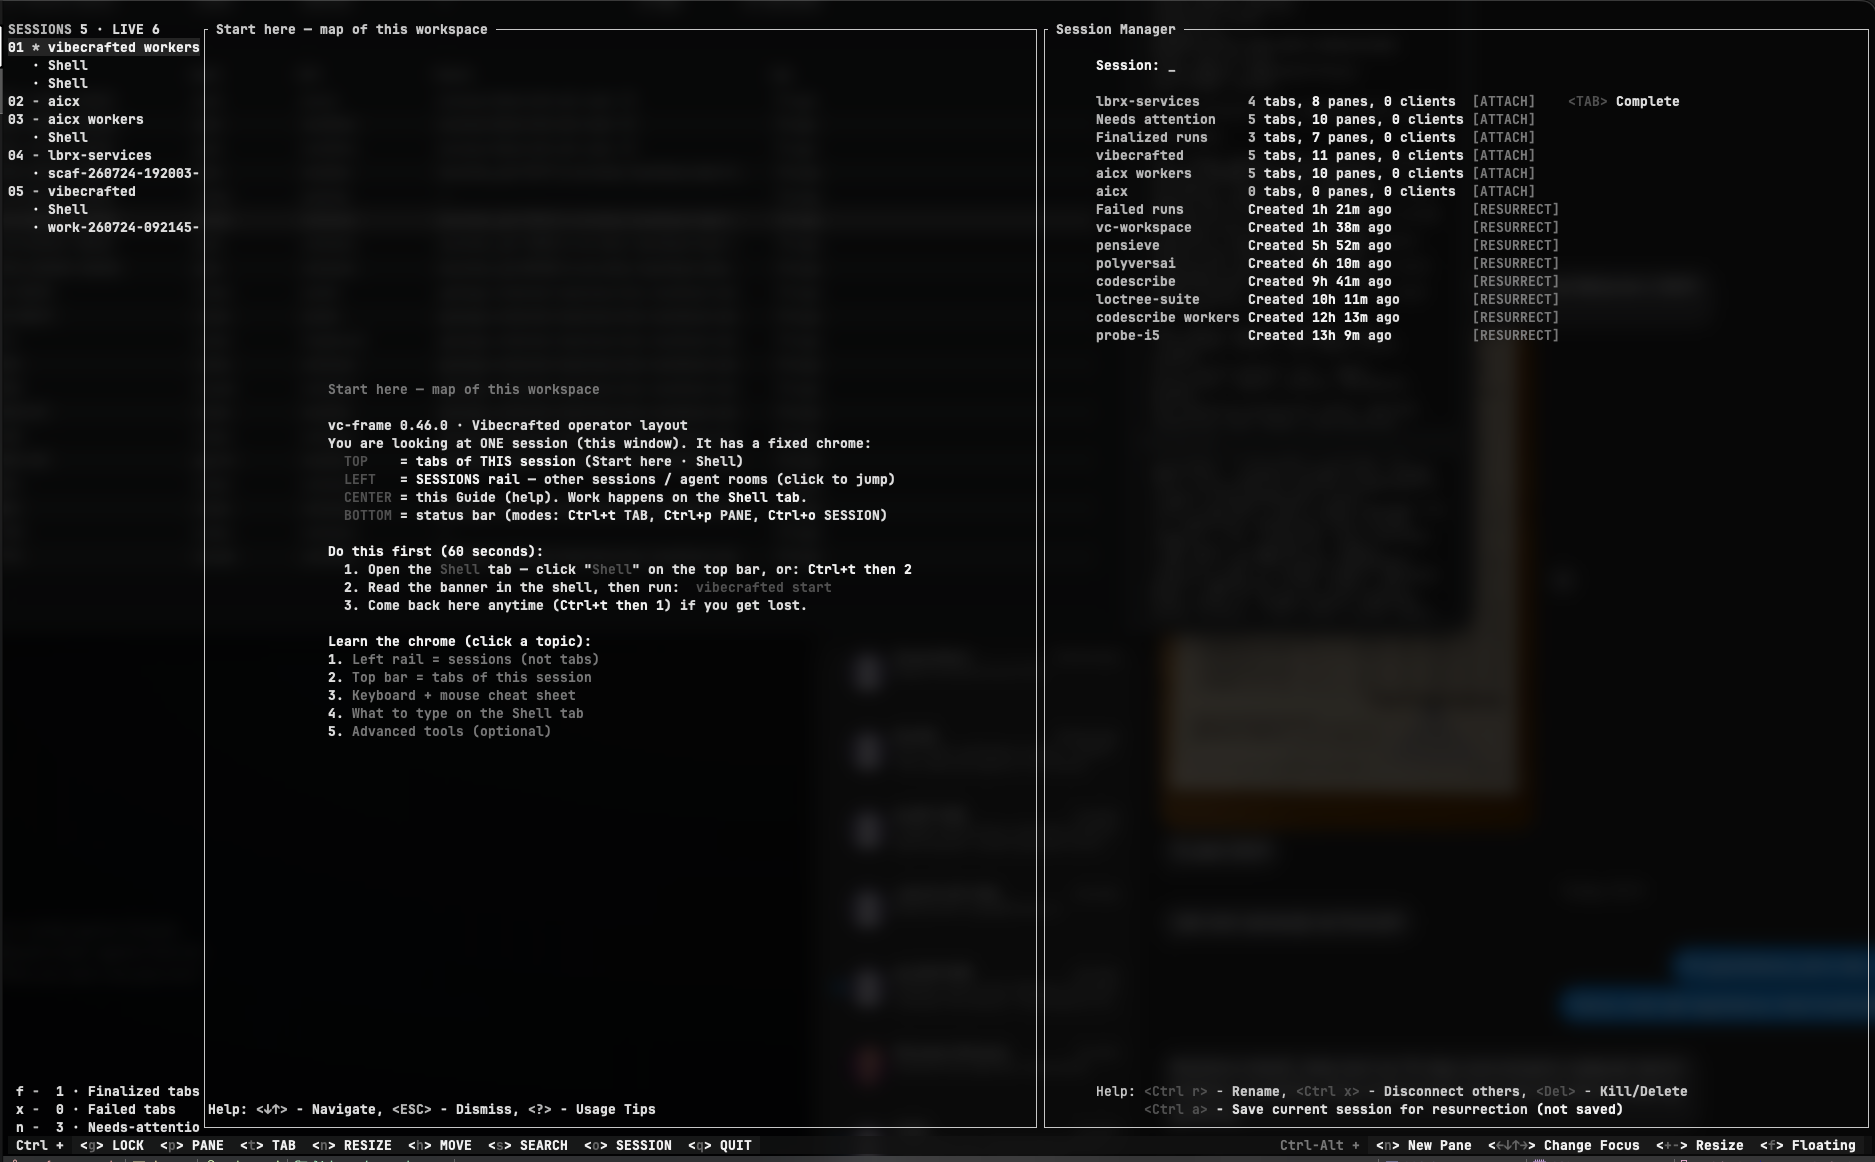
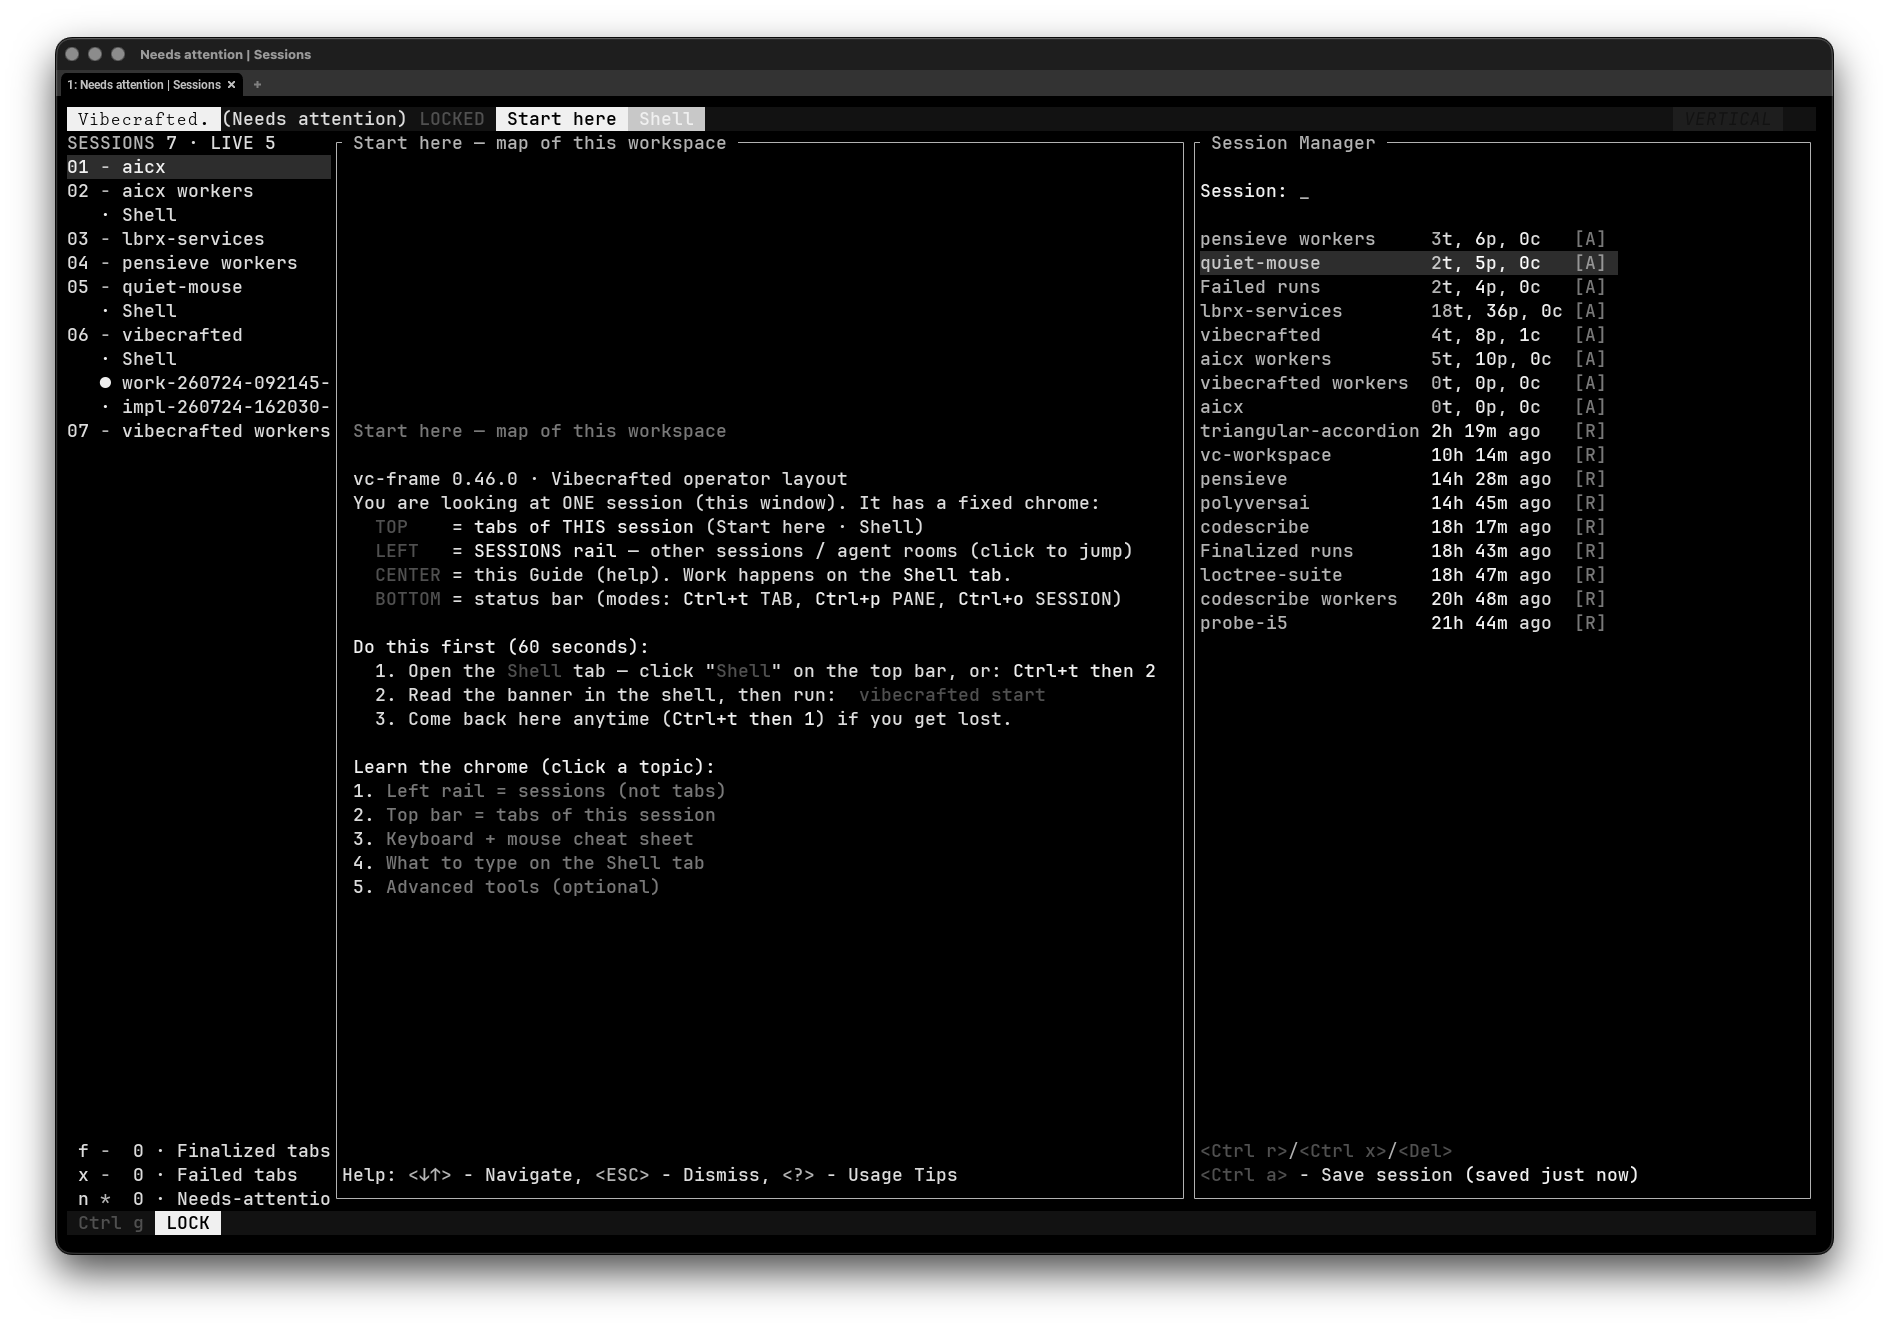
[grok/vc-scaffold] feat(site): macOS window chrome + Start-here as hero
- TerminalWindow component + shared terminal-window.css
- Product gallery shots framed as real windows (traffic lights + title)
- Hero uses operator Start-here/Session Manager capture in chrome
- Lead surface shot = Start here (not dense-run-only)

session_id: 8b38060a-edfa-464d-be5f-51b0750faa5c
time: 2026-07-25T06:00:35+02:00
runtime: terminal

diff --git a/site/src/components/sections/HeroSectionV2.svelte b/site/src/components/sections/HeroSectionV2.svelte
@@ -44,17 +44,27 @@
   <div class="hero__vignette" aria-hidden="true"></div>
 
   <div class="hero__visual" aria-hidden="true">
-    <!-- Real vc-frame operator layout — Start here map + Session Manager -->
-    <div class="hero__frame">
-      <img
-        class="hero__art"
-        src="/assets/hero/real-usage.png"
-        alt=""
-        width="2400"
-        height="1350"
-        decoding="async"
-        fetchpriority="high"
-      />
+    <!-- Real vc-frame capture in macOS window chrome (frame only; simulator later) -->
+    <div class="hero__window vc-termwin vc-termwin--hero">
+      <div class="vc-termwin__titlebar">
+        <span class="vc-termwin__lights">
+          <span class="vc-termwin__dot vc-termwin__dot--close"></span>
+          <span class="vc-termwin__dot vc-termwin__dot--min"></span>
+          <span class="vc-termwin__dot vc-termwin__dot--max"></span>
+        </span>
+        <span class="vc-termwin__title">Needs attention · Sessions — vc-frame</span>
+      </div>
+      <div class="vc-termwin__body">
+        <img
+          class="hero__art"
+          src="/assets/hero/real-usage.png"
+          alt="vc-frame operator layout: Start here map, sessions rail, Session Manager"
+          width="1600"
+          height="1000"
+          decoding="async"
+          fetchpriority="high"
+        />
+      </div>
     </div>
     <div class="hero__art-shade"></div>
   </div>
@@ -158,7 +168,7 @@
     pointer-events: none;
   }
 
-  /* ── Real-usage frame (replaces marble canvas + AI art) ──── */
+  /* ── Real-usage window (macOS chrome + capture) ──────────── */
 
   .hero__visual {
     position: absolute;
@@ -168,20 +178,12 @@
     overflow: hidden;
   }
 
-  .hero__frame {
+  .hero__window {
     position: absolute;
     right: clamp(16px, 3vw, 48px);
     top: 50%;
     transform: translateY(-52%);
     width: min(58vw, 920px);
-    border-radius: 6px;
-    border: 1px solid rgba(245, 244, 239, 0.12);
-    box-shadow:
-      0 0 0 1px rgba(0, 0, 0, 0.45),
-      0 28px 80px rgba(0, 0, 0, 0.55),
-      0 0 120px rgba(var(--v2-accent-rgb), 0.06);
-    overflow: hidden;
-    background: #0a0c10;
   }
 
   .hero__art {
@@ -471,13 +473,13 @@
       min-height: 200px;
     }
 
-    .hero__frame {
+    .hero__window {
       right: 12px;
       left: 12px;
       top: 88px;
       transform: none;
       width: auto;
-      opacity: 0.72;
+      opacity: 0.88;
     }
 
     .hero__art-shade {

diff --git a/site/src/styles/terminal-window.css b/site/src/styles/terminal-window.css
@@ -1,0 +1,104 @@
+/**
+ * Realistic macOS-style window chrome for real product captures.
+ * Shared by hero + product surface gallery.
+ */
+.vc-termwin {
+  --vc-termwin-bar: #2a2d33;
+  --vc-termwin-bar-border: rgba(255, 255, 255, 0.08);
+  --vc-termwin-body: #0c0e12;
+  --vc-termwin-title: rgba(245, 244, 239, 0.72);
+  --vc-termwin-shadow:
+    0 28px 80px rgba(0, 0, 0, 0.55), 0 0 0 1px rgba(0, 0, 0, 0.4);
+  border-radius: 10px;
+  overflow: hidden;
+  background: var(--vc-termwin-body);
+  box-shadow: var(--vc-termwin-shadow);
+  border: 1px solid rgba(245, 244, 239, 0.1);
+}
+
+.vc-termwin__titlebar {
+  display: flex;
+  align-items: center;
+  gap: 12px;
+  height: 36px;
+  padding: 0 12px;
+  background: linear-gradient(180deg, #353841 0%, var(--vc-termwin-bar) 100%);
+  border-bottom: 1px solid var(--vc-termwin-bar-border);
+  user-select: none;
+}
+
+.vc-termwin__lights {
+  display: flex;
+  align-items: center;
+  gap: 7px;
+  flex-shrink: 0;
+}
+
+.vc-termwin__dot {
+  width: 11px;
+  height: 11px;
+  border-radius: 50%;
+  box-shadow: inset 0 0 0 0.5px rgba(0, 0, 0, 0.25);
+}
+
+.vc-termwin__dot--close {
+  background: #ff5f57;
+}
+
+.vc-termwin__dot--min {
+  background: #febc2e;
+}
+
+.vc-termwin__dot--max {
+  background: #28c840;
+}
+
+.vc-termwin__title {
+  flex: 1;
+  min-width: 0;
+  text-align: center;
+  font-family: var(--font-mono, ui-monospace, SFMono-Regular, Menlo, monospace);
+  font-size: 11px;
+  font-weight: 500;
+  letter-spacing: 0.04em;
+  color: var(--vc-termwin-title);
+  white-space: nowrap;
+  overflow: hidden;
+  text-overflow: ellipsis;
+  padding-right: 52px; /* balance traffic lights */
+}
+
+.vc-termwin__body {
+  position: relative;
+  background: var(--vc-termwin-body);
+  line-height: 0;
+}
+
+.vc-termwin__body img {
+  display: block;
+  width: 100%;
+  height: auto;
+  vertical-align: top;
+}
+
+.vc-termwin--hero {
+  border-radius: 11px;
+}
+
+.vc-termwin--hero .vc-termwin__titlebar {
+  height: 38px;
+}
+
+.vc-termwin--compact .vc-termwin__titlebar {
+  height: 32px;
+}
+
+.vc-termwin--compact .vc-termwin__dot {
+  width: 10px;
+  height: 10px;
+}
+
+.vc-termwin--compact .vc-termwin__title {
+  font-size: 10px;
+  padding-right: 48px;
+}

diff --git a/site/src/lib/i18n/pl.ts b/site/src/lib/i18n/pl.ts
@@ -118,7 +118,7 @@ export const pl = {
       live: "LIVE",
     },
     telemetryLegend: "Powierzchnia dispatchu: agenci, repo, żywe runy.",
-    canvasCaption: "Real usage · finalized run · rail sesji · strip f/x/n.",
+    canvasCaption: "Real usage · Start here · Session Manager · rail sesji.",
     scroll: "SCROLL",
   },
   copyButton: {

diff --git a/site/src/lib/i18n/en.ts b/site/src/lib/i18n/en.ts
@@ -114,7 +114,7 @@ export const en = {
       live: "LIVE",
     },
     telemetryLegend: "Dispatch surface: agents, repos, live runs.",
-    canvasCaption: "Real usage · finalized run · session rail · f/x/n strip.",
+    canvasCaption: "Real usage · Start here · Session Manager · sessions rail.",
     scroll: "SCROLL",
   },
   copyButton: {

diff --git a/site/src/content/i18n/en/product-surface-v2.md b/site/src/content/i18n/en/product-surface-v2.md
@@ -7,30 +7,34 @@ headingHtml: 'This is the <em class="accent-2">product</em>'
 subtitle: "A factory and a multiplexer for CLI coding agents. Below is the operator cockpit — real frames from vc-frame, not mockups."
 
 shots:
-  - id: finalized-run
-    src: "/assets/product/01-finalized-run.png"
-    label: "FINALIZED RUN"
-    title: "Report · tokens · resume"
-    body: "A settled run leaves a report, token counts, and a resume path. Settlement strip (f · x · n) lives with the board — not as decoration."
-    alt: "vc-frame: session rail, finalized run report, Session Manager, f/x/n strip"
   - id: start-here
     src: "/assets/product/02-start-here-map.png"
     label: "OPERATOR MAP"
+    windowTitle: "Needs attention · Sessions — vc-frame"
     title: "Start here · chrome legend"
     body: "First minute: where sessions live, where work happens, how Session Manager attaches. Inventory of rooms — not fleet truth."
     alt: "vc-frame Start here guide with sessions list and Session Manager"
+  - id: finalized-run
+    src: "/assets/product/01-finalized-run.png"
+    label: "FINALIZED RUN"
+    windowTitle: "Vibecrafted. · Finalized runs"
+    title: "Report · tokens · resume"
+    body: "A settled run leaves a report, token counts, and a resume path. Settlement strip (f · x · n) lives with the board — not as decoration."
+    alt: "vc-frame: session rail, finalized run report, Session Manager, f/x/n strip"
   - id: cockpit
     src: "/assets/product/03-vc-frame-cockpit.png"
     label: "COCKPIT"
+    windowTitle: "vc-frame · dispatch layout"
     title: "Dispatch layout · multi-pane"
     body: "Peer agents side by side inside one window. The rail jumps sessions; tabs stay local to the room you are in."
     alt: "vc-frame multi-pane dispatch cockpit with session rail"
   - id: anatomy
     src: "/assets/product/04-vc-frame-anatomy.png"
     label: "ANATOMY"
+    windowTitle: "vc-frame · anatomy"
     title: "Rail · tabs · panes"
     body: "Fixed chrome: left sessions, top tabs, center work, bottom status. Learn it once — every layout uses the same bones."
-    alt: "vc-frame anatomy of rail, tabs, and panes"
+    alt: "vc-frame anatomy diagram of rail, tabs, and panes"
 
 installLead: "Install the runtime"
 installCommand: "curl -fsSL https://vibecrafted.io/install.sh | bash"

diff --git a/site/src/content/i18n/pl/product-surface-v2.md b/site/src/content/i18n/pl/product-surface-v2.md
@@ -7,27 +7,31 @@ headingHtml: 'To jest <em class="accent-2">produkt</em>'
 subtitle: "Fabryka i multiplekser agentów CLI. Poniżej kokpit operatora — prawdziwe kadry z vc-frame, nie mockupy."
 
 shots:
-  - id: finalized-run
-    src: "/assets/product/01-finalized-run.png"
-    label: "FINALIZED RUN"
-    title: "Raport · tokeny · resume"
-    body: "Zamknięty run zostawia raport, tokeny i ścieżkę resume. Strip settlement (f · x · n) należy do tablicy — nie do dekoracji."
-    alt: "vc-frame: rail sesji, raport finalized run, Session Manager, strip f/x/n"
   - id: start-here
     src: "/assets/product/02-start-here-map.png"
     label: "MAPA OPERATORA"
+    windowTitle: "Needs attention · Sessions — vc-frame"
     title: "Start here · legenda chrome"
     body: "Pierwsza minuta: gdzie są sesje, gdzie leci praca, jak Session Manager robi ATTACH. Inwentarz pokoi — nie prawda floty."
     alt: "Przewodnik Start here w vc-frame z listą sesji i Session Manager"
+  - id: finalized-run
+    src: "/assets/product/01-finalized-run.png"
+    label: "FINALIZED RUN"
+    windowTitle: "Vibecrafted. · Finalized runs"
+    title: "Raport · tokeny · resume"
+    body: "Zamknięty run zostawia raport, tokeny i ścieżkę resume. Strip settlement (f · x · n) należy do tablicy — nie do dekoracji."
+    alt: "vc-frame: rail sesji, raport finalized run, Session Manager, strip f/x/n"
   - id: cockpit
     src: "/assets/product/03-vc-frame-cockpit.png"
     label: "KOKPIT"
+    windowTitle: "vc-frame · layout dispatch"
     title: "Layout dispatch · multi-pane"
     body: "Peer agenci obok siebie w jednym oknie. Rail skacze między sesjami; taby zostają w pokoju, w którym jesteś."
     alt: "Kokpit multi-pane vc-frame z railem sesji"
   - id: anatomy
     src: "/assets/product/04-vc-frame-anatomy.png"
     label: "ANATOMIA"
+    windowTitle: "vc-frame · anatomia"
     title: "Rail · taby · panele"
     body: "Stały chrome: lewo sesje, góra taby, środek praca, dół status. Uczysz się raz — każdy layout stoi na tych kościach."
     alt: "Anatomia vc-frame: rail, taby i panele"
